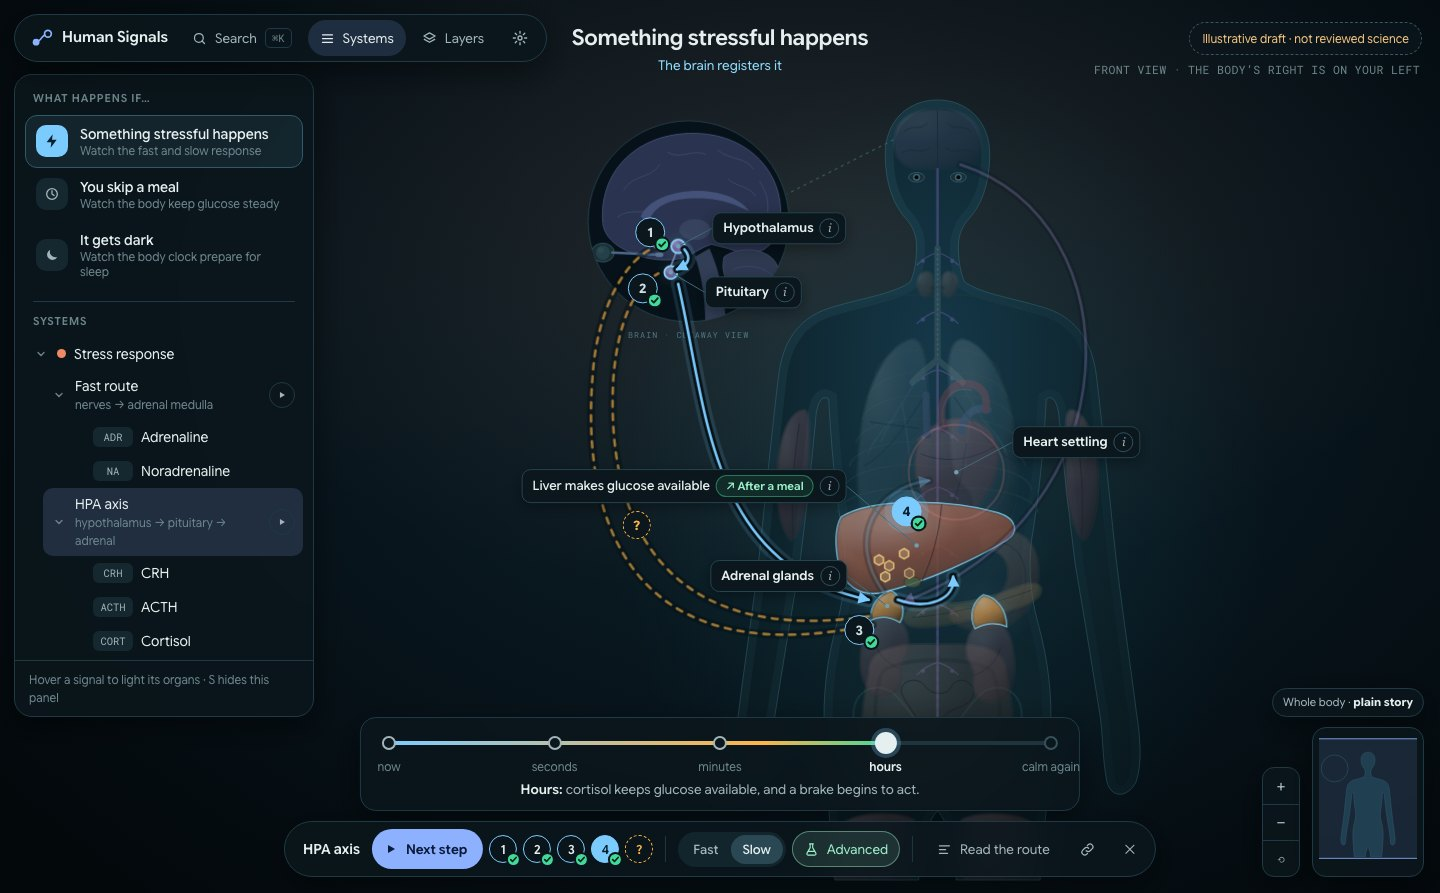
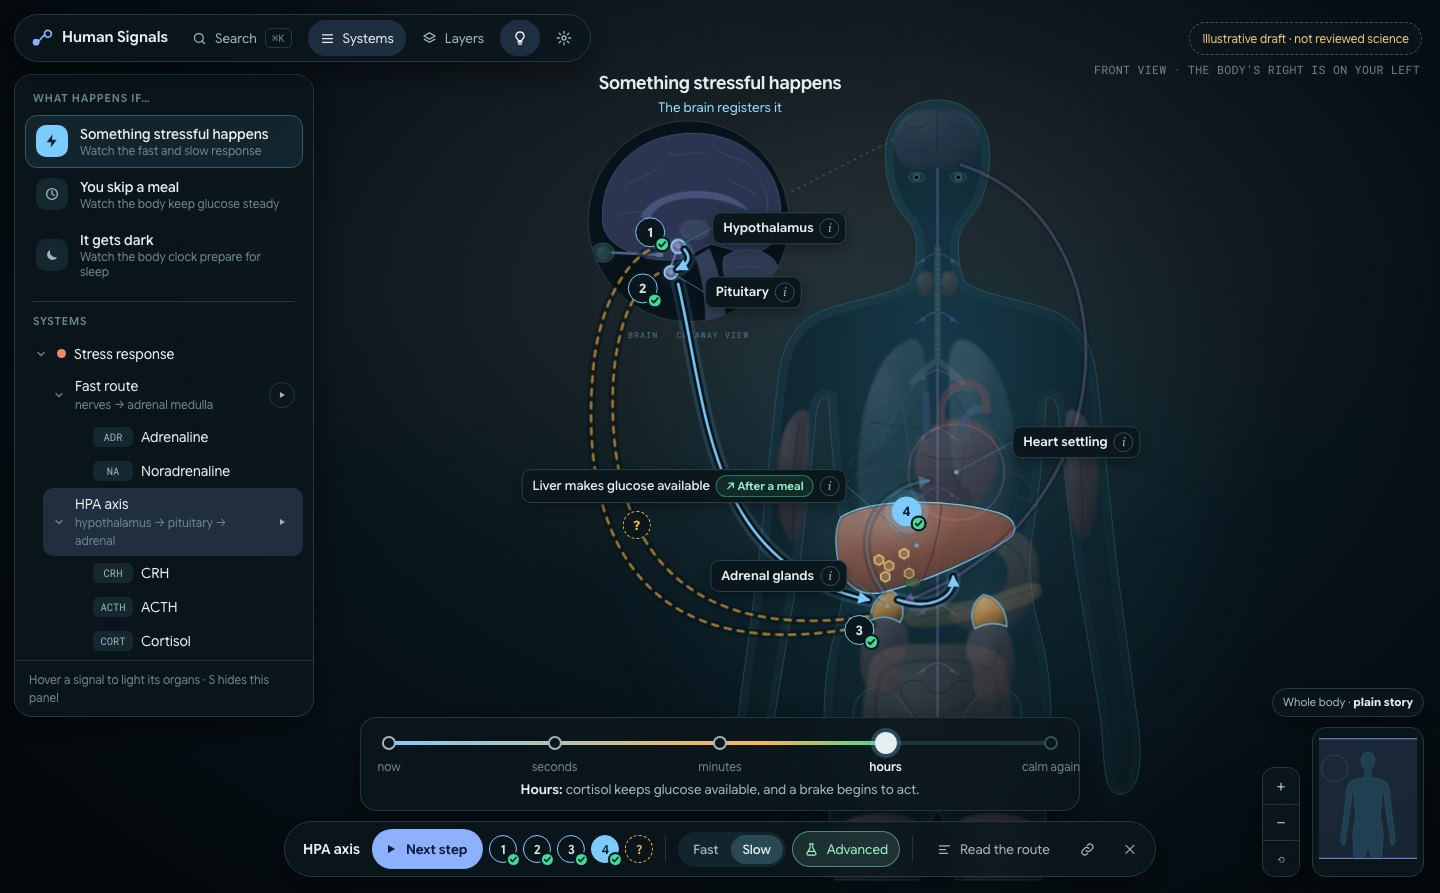
feat(v4): a hints toggle so tips never cover the scene
The little bulb tips (one per depth) can now be hidden and shown from a
bulb button in the top toolbar, sharing the tips' own glyph, plus the H
key; the Settings switch stays in sync. Hiding clears the current tip;
showing brings the depth's tip back. Caption/thought drop below the
toolbar now starts at <=1500 so the wider toolbar clears the wide stress
caption at 1440. Audit still 0/40; no console errors.

Changed region(s): [[0.3438, 0.0, 0.5938, 0.1512]]

diff --git a/prototypes/v4/js/ui.js b/prototypes/v4/js/ui.js
@@ -35,16 +35,30 @@ HS.showRouteCard=function(id,ev){
 /* ---------- toast & tips ---------- */
 let toastT=0; const toastEl=document.createElement('div'); toastEl.className='tip float'; toastEl.style.cssText='left:50%;top:84px;transform:translateX(-50%);display:none'; toastEl.setAttribute('role','status'); app.appendChild(toastEl);
 HS.toast=m=>{ toastEl.textContent=m; toastEl.style.display='flex'; clearTimeout(toastT); toastT=setTimeout(()=>toastEl.style.display='none',2800); };
-const tipsSeen=HS.tipsSeen=new Set(), tipsBox=$('#tips'); HS.tipsOn=true;
-HS.tip=function(key,text,pos){
-  if(!HS.tipsOn||tipsSeen.has(key)) return; tipsSeen.add(key);
+const tipsSeen=HS.tipsSeen=new Set(), tipsBox=$('#tips'); HS.tipsOn=true; HS._curTip=null;
+function renderTip(key,text,pos){
   tipsBox.innerHTML='';   // one tip at a time: a newer tip replaces the older one
   const d=document.createElement('div'); d.className='tip float'; d.dataset.key=key;
   Object.entries(pos).forEach(([k,v])=>d.style[k]=v+'px');
   d.innerHTML=`<svg class="bulb" width="16" height="16" viewBox="0 0 24 24" aria-hidden="true"><path d="M9 18h6M10 21h4M12 3a6 6 0 0 0-3.5 10.9c.6.5 1 1.2 1 2.1h5c0-.9.4-1.6 1-2.1A6 6 0 0 0 12 3z" fill="none" stroke="currentColor" stroke-width="2" stroke-linecap="round"/></svg><span>${text}</span><button aria-label="Dismiss tip">×</button>`;
   d.querySelector('button').onclick=()=>d.remove(); tipsBox.appendChild(d);
+}
+HS.tip=function(key,text,pos){
+  HS._curTip={key,text,pos};   // remembered so the hints control can bring it back
+  if(!HS.tipsOn||tipsSeen.has(key)) return; tipsSeen.add(key);
+  renderTip(key,text,pos);
 };
 HS.clearTip=key=>{ const d=tipsBox.querySelector(`[data-key="${key}"]`); if(d) d.remove(); };
+/* hints control: one switch for all the little bulb tips */
+HS.setTips=function(on,announce){
+  HS.tipsOn=!!on;
+  const b=$('#bHints'), t=$('#tTips');
+  if(b){ b.setAttribute('aria-pressed',HS.tipsOn); b.setAttribute('aria-label',HS.tipsOn?'Hints on':'Hints off'); }
+  if(t) t.setAttribute('aria-checked',HS.tipsOn);
+  if(!HS.tipsOn){ tipsBox.innerHTML=''; }
+  else if(HS._curTip){ tipsSeen.delete(HS._curTip.key); renderTip(HS._curTip.key,HS._curTip.text,HS._curTip.pos); tipsSeen.add(HS._curTip.key); }
+  if(announce) HS.toast(HS.tipsOn?'Hints on: a short tip appears once at each depth.':'Hints hidden. Turn them back on any time with the bulb, or H.');
+};
 
 /* ---------- organ lighting ---------- */
 const light=HS.light={lit:new Set(),dim:null,preview:null};
@@ -223,13 +237,14 @@ function applyLayer(name,on,user){
 HS.setLayer=(name,on)=>{ document.querySelector(`[data-layer="${name}"]`).setAttribute('aria-checked',on); applyLayer(name,on,false); };
 function pop(btn,id){ const p=$(id), open=p.hidden; document.querySelectorAll('.pop').forEach(x=>x.hidden=true); document.querySelectorAll('#bLayers,#bSettings').forEach(b=>b.setAttribute('aria-expanded','false')); if(open){ p.hidden=false; btn.setAttribute('aria-expanded','true'); } }
 $('#bLayers').addEventListener('click',e=>{ e.stopPropagation(); pop(e.currentTarget,'#popLayers'); });
+$('#bHints').addEventListener('click',()=>HS.setTips(!HS.tipsOn,true));
 $('#bSettings').addEventListener('click',e=>{ e.stopPropagation(); pop(e.currentTarget,'#popSettings'); });
 document.addEventListener('click',e=>{ if(!e.target.closest('.pop')&&!e.target.closest('#bLayers,#bSettings')){ document.querySelectorAll('.pop').forEach(x=>x.hidden=true); document.querySelectorAll('#bLayers,#bSettings').forEach(b=>b.setAttribute('aria-expanded','false')); } });
 document.querySelectorAll('.toggle[role="switch"]').forEach(t=>t.addEventListener('click',()=>{
   const on=t.getAttribute('aria-checked')!=='true'; t.setAttribute('aria-checked',on);
   if(t.id==='tMotion'){ HS.userRM=on; HS.applyRM(); HS.stopPlay(); HS.setPlayUI(); }
   else if(t.id==='tLabels'){ HS.ov.showAll=on; HS.renderOverlay(); }
-  else if(t.id==='tTips'){ HS.tipsOn=on; if(!on) tipsBox.innerHTML=''; }
+  else if(t.id==='tTips'){ HS.setTips(on); }
   else if(t.dataset.layer) applyLayer(t.dataset.layer,on,true);
 }));
 })(window.HS);

diff --git a/prototypes/v4/index.html b/prototypes/v4/index.html
@@ -22,6 +22,7 @@
     <button class="tb" id="bSearch"><svg width="15" height="15" viewBox="0 0 24 24" aria-hidden="true"><circle cx="11" cy="11" r="7" fill="none" stroke="currentColor" stroke-width="2"/><path d="M20 20l-4-4" stroke="currentColor" stroke-width="2" stroke-linecap="round"/></svg>Search <kbd>⌘K</kbd></button>
     <button class="tb" id="bSystems" aria-pressed="true"><svg width="15" height="15" viewBox="0 0 24 24" aria-hidden="true"><path d="M4 6h16M4 12h16M4 18h16" stroke="currentColor" stroke-width="2" stroke-linecap="round"/></svg>Systems</button>
     <button class="tb" id="bLayers" aria-expanded="false"><svg width="15" height="15" viewBox="0 0 24 24" aria-hidden="true"><path d="M12 3l9 5-9 5-9-5 9-5zM3 13l9 5 9-5" fill="none" stroke="currentColor" stroke-width="2" stroke-linejoin="round"/></svg>Layers</button>
+    <button class="tb" id="bHints" aria-pressed="true" aria-label="Hints on" title="Hints — show or hide the little tips (H)"><svg width="16" height="16" viewBox="0 0 24 24" aria-hidden="true"><path d="M9 18h6M10 21h4M12 3a6 6 0 0 0-3.5 10.9c.6.5 1 1.2 1 2.1h5c0-.9.4-1.6 1-2.1A6 6 0 0 0 12 3z" fill="none" stroke="currentColor" stroke-width="2" stroke-linecap="round"/></svg></button>
     <button class="tb" id="bSettings" aria-expanded="false" aria-label="Settings"><svg width="16" height="16" viewBox="0 0 24 24" aria-hidden="true"><circle cx="12" cy="12" r="3" fill="none" stroke="currentColor" stroke-width="2"/><path d="M12 2v3M12 19v3M2 12h3M19 12h3M4.9 4.9l2.1 2.1M17 17l2.1 2.1M4.9 19.1L7 17M17 7l2.1-2.1" stroke="currentColor" stroke-width="2" stroke-linecap="round"/></svg></button>
   </div>
   <div class="pop float" id="popLayers" hidden style="left:300px">
@@ -35,7 +36,7 @@
     <button class="toggle" role="switch" aria-checked="false" id="tMotion"><span>Reduce motion<small>No travelling pulses or animated signs</small></span><span class="sw"></span></button>
     <button class="toggle" role="switch" aria-checked="false" id="tAdv"><span>Advanced mode<small>Receptors, molecule classes, passports · A</small></span><span class="sw"></span></button>
     <button class="toggle" role="switch" aria-checked="false" id="tLabels"><span>Show all labels<small>For review and teaching · L</small></span><span class="sw"></span></button>
-    <button class="toggle" role="switch" aria-checked="true" id="tTips"><span>Tips<small>One per zoom level, shown once</small></span><span class="sw"></span></button>
+    <button class="toggle" role="switch" aria-checked="true" id="tTips"><span>Tips<small>One per zoom level · toggle with the bulb or H</small></span><span class="sw"></span></button>
     <button class="toggle" id="bKeys"><span>Keyboard shortcuts<small>Press ? anytime</small></span><kbd class="kk">?</kbd></button>
     <div class="divider"></div>
     <h4>Your progress</h4>

diff --git a/prototypes/v4/js/app.js b/prototypes/v4/js/app.js
@@ -44,6 +44,7 @@ document.addEventListener('keydown',e=>{
   else if(k==='0') HS.camTo('body');
   else if(k==='/'){ e.preventDefault(); $('#bSearch').click(); }
   else if(k==='a'||k==='A') HS.setAdvanced(!HS.advOn,true);
+  else if(k==='h'||k==='H') HS.setTips(!HS.tipsOn,true);
   else if(p){
     if(k===' '&&!tgt.closest('button')){ e.preventDefault(); HS.play(); }
     else if(k===']'||k==='['){ const n=p.hots.length, i=k===']'?Math.min(n-1,E.cur+1):Math.max(0,E.cur-1); HS.goHot(i,true); setTimeout(()=>HS.focusHotspot(E.sceneId+E.route+i),50); }
@@ -70,7 +71,7 @@ window.addEventListener('hashchange',()=>{ if(!HS.restoring) HS.restoreFromHash(
 $('#labels').addEventListener('focusin',e=>{ if(e.target.matches('.hs,.lab button')) HS.ensureVisible(e.target); });
 
 /* keyboard shortcuts (?) */
-const KEYS=[['Anywhere',[['⌘K or /','Search'],['S','Systems panel'],['L','Show all labels'],['+ and −','Zoom'],['0','Whole body'],['Arrows','Pan, when the body has focus'],['A','Advanced mode'],['?','This list'],['Esc','Close, then zoom out, then leave']]],
+const KEYS=[['Anywhere',[['⌘K or /','Search'],['S','Systems panel'],['L','Show all labels'],['+ and −','Zoom'],['0','Whole body'],['Arrows','Pan, when the body has focus'],['A','Advanced mode'],['H','Hints on or off'],['?','This list'],['Esc','Close, then zoom out, then leave']]],
  ['In a pathway',[['Space','Play or pause'],['] and [','Next or previous step'],['T','Try it?'],['W','What if?'],['F and G','First or second route'],['R','Read the route']]]];
 HS.toggleKeys=function(){
   let d=$('#keys'); if(d){ const ret=d._ret; d.remove(); if(ret&&document.contains(ret)) ret.focus(); return; }

diff --git a/prototypes/v4/css/app.css b/prototypes/v4/css/app.css
@@ -369,7 +369,7 @@ button{font-family:inherit;color:inherit}
   .lvl-chip{bottom:220px}
   #tips .tip[style*="bottom"]{margin-bottom:50px}
 }
-@media (max-width:1400px){
+@media (max-width:1500px){
   .caption{top:70px}
   .caption b{font-size:18px}
   .thought{top:124px}
